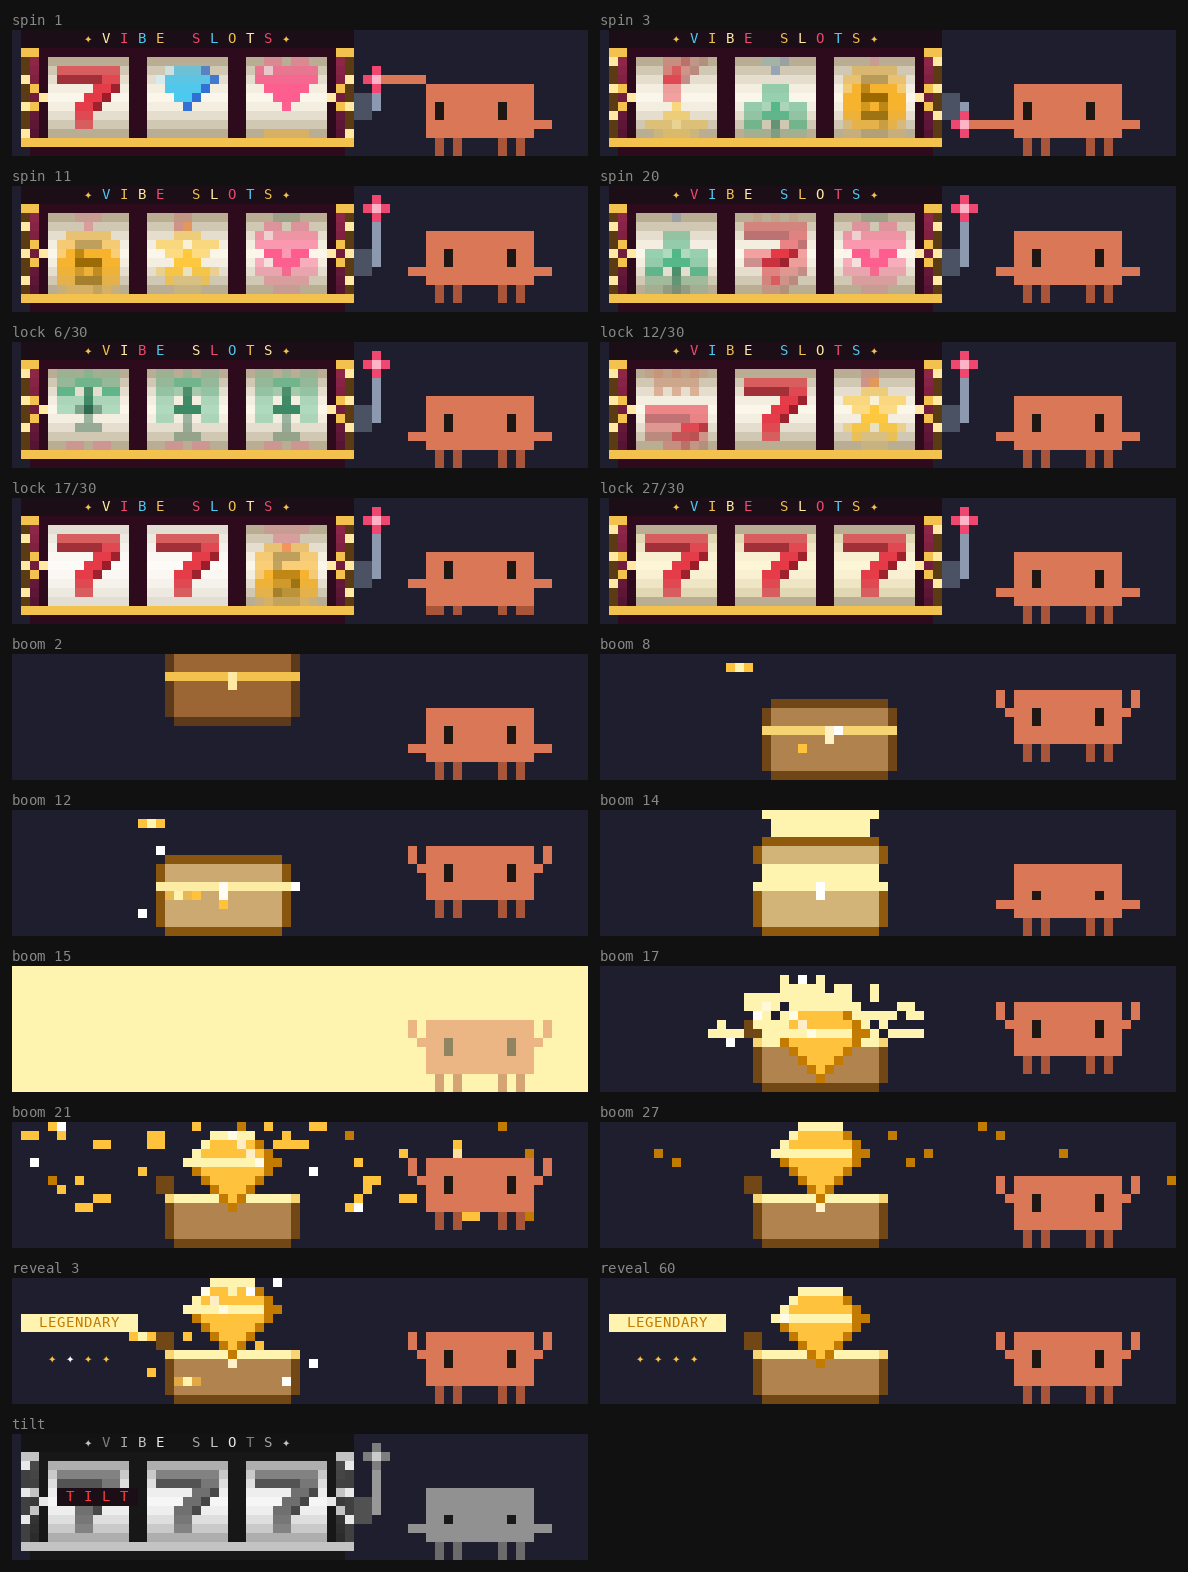
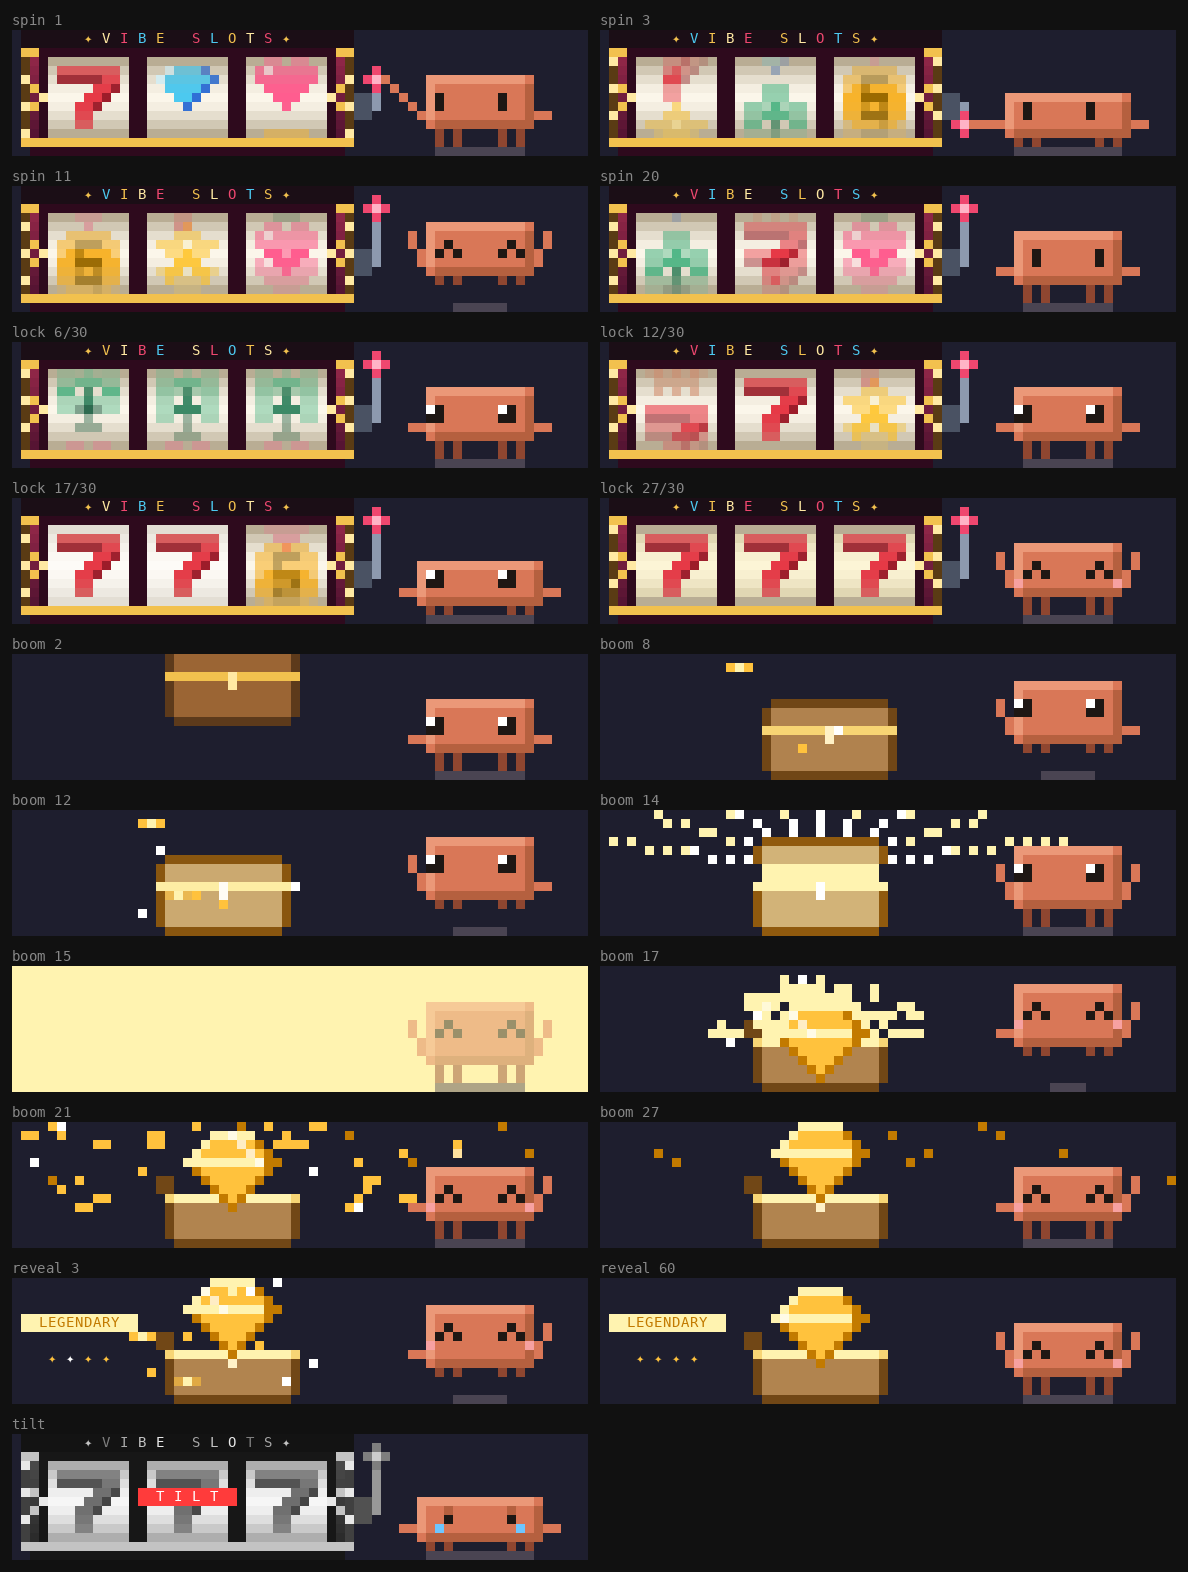
Expressive Clawd: shading, squash and stretch, eyes, reactions
Clawd is now drawn procedurally with lit and shaded edges, a ground
shadow that shrinks as he hops, six eye styles (open, blink, happy,
wide, half-lidded, teary), arm poses, foot taps and blush, and reacts
to every beat: coins, the lever, each reel landing, the box, the burst,
and the prize's rarity.

Claude-Session: https://claude.ai/code/session_01CzJCBwZJrRakeqZLbDG4ad

diff --git a/hooks/pixels.ts b/hooks/pixels.ts
@@ -2,6 +2,8 @@
 // two stacked pixels (a half block), so a 64 x 7 cell canvas is 64 x 14 pixels.
 // Text cells can be laid over the pixels for labels.
 import type { Show, Tier } from '../types'
+import { drawClawd } from './clawd'
+import type { Look } from './clawd'
 import { SLOT_PX, STRIP_PX, lockFrames, mod, reelMotion, stopFrame } from './motion'
 
 export const SCENE_COLUMNS = 64
@@ -198,31 +200,6 @@ const SYMBOL_SPRITES: readonly { rows: readonly string[]; ink: Record<string, nu
   },
 ]
 
-type Pose = 'idle' | 'blink' | 'cheer' | 'reach' | 'squat'
-
-// Clawd as on the Claude Code welcome screen: a wide body, two slit eyes, side
-// arms and four short legs, 18 x 8 pixels.
-const CLAWD_ROWS: Record<Pose, readonly string[]> = {
-  idle: ['...KKKKKKKKKKKK...', '...KKKKKKKKKKKK...', '...KKeKKKKKKeKK...', '...KKeKKKKKKeKK...', '.KKKKKKKKKKKKKKKK.', '...KKKKKKKKKKKK...', '....k.k....k.k....', '....k.k....k.k....'],
-  blink: ['...KKKKKKKKKKKK...', '...KKKKKKKKKKKK...', '...KKKKKKKKKKKK...', '...KKeKKKKKKeKK...', '.KKKKKKKKKKKKKKKK.', '...KKKKKKKKKKKK...', '....k.k....k.k....', '....k.k....k.k....'],
-  cheer: [
-    '.K.KKKKKKKKKKKK.K.',
-    '.K.KKKKKKKKKKKK.K.',
-    '..KKKeKKKKKKeKKK..',
-    '...KKeKKKKKKeKK...',
-    '...KKKKKKKKKKKK...',
-    '...KKKKKKKKKKKK...',
-    '....k.k....k.k....',
-    '....k.k....k.k....',
-  ],
-  reach: ['...KKKKKKKKKKKK...', '...KKKKKKKKKKKK...', '...KeKKKKKKeKKK...', '...KeKKKKKKeKKK...', '...KKKKKKKKKKKKKK.', '...KKKKKKKKKKKK...', '....k.k....k.k....', '....k.k....k.k....'],
-  squat: ['..................', '...KKKKKKKKKKKK...', '...KKeKKKKKKeKK...', '...KKeKKKKKKeKK...', '.KKKKKKKKKKKKKKKK.', '...KKKKKKKKKKKK...', '...KKKKKKKKKKKK...', '...kk.k....k.kk...'],
-}
-
-function drawClawd(cv: Canvas, x: number, y: number, pose: Pose, map?: (c: number) => number): void {
-  cv.sprite(x, y, CLAWD_ROWS[pose], { K: INK.clawd, k: INK.clawdShade, e: INK.eye }, map)
-}
-
 const CHEST = [
   '.ddddddddddddd.',
   'dWWWWWWWWWWWWWd',
@@ -256,7 +233,7 @@ const WINDOWS = [4, 15, 26]
 const WIN_W = 9
 const PAY_Y = WIN_Y + Math.floor(WIN_H / 2)
 const CLAWD_X = 43
-const CLAWD_Y = 6
+const GROUND = 12
 
 /** The lever's pull, 0 up to 1 fully down, over the first frames of a spin. */
 function leverPull(show: Show): number {
@@ -352,23 +329,41 @@ function drawCabinet(cv: Canvas, show: Show, dim: (c: number) => number = c => c
 
 function spinScene(cv: Canvas, show: Show): void {
   drawCabinet(cv, show)
+  clawd(cv, spinLook(show))
+}
+
+function clawd(cv: Canvas, look: Look): void {
+  drawClawd(cv, CLAWD_X, GROUND, look)
+}
+
+/** Clawd at the machine: hauls the lever, taps a foot while waiting, cheers each coin. */
+function spinLook(show: Show): Look {
   const f = show.frame
   const pull = leverPull(show)
   if (pull > 0) {
-    // Clawd reaches over and hauls the lever down.
     const knobY = Math.round(1 + pull * 8)
-    const y = CLAWD_Y
-    drawClawd(cv, CLAWD_X, y, 'reach')
-    for (let x = 41; x < CLAWD_X + 3; x++) cv.set(x, Math.min(knobY + 1, y + 4), INK.clawd)
-  } else if (show.phase === 'locking') {
-    // Watches the reels, bouncing as each one lands.
-    const bounce = [0, 1, 2].some(i => show.frame - stopFrame(show, i) === 0)
-    drawClawd(cv, CLAWD_X, CLAWD_Y + (bounce ? -1 : 0), bounce ? 'squat' : 'idle')
-  } else {
-    const blink = f % 28 < 2
-    const bob = f % 12 < 6 ? 0 : 1
-    drawClawd(cv, CLAWD_X, CLAWD_Y - bob, blink ? 'blink' : 'idle')
+    return { eyes: 'open', gaze: -1, arms: 'reach', reach: { x: 41, y: knobY + 1 }, squash: pull > 0.5 ? 1 : 0, frame: f }
   }
+  if (show.phase === 'locking') {
+    const end = lockFrames(show)
+    if (f >= end - 6) {
+      const won = show.loot !== null && show.loot.tier !== 'common'
+      return won
+        ? { eyes: 'happy', arms: 'up', blush: true, lift: f % 4 < 2 ? 1 : 0, frame: f }
+        : { eyes: 'half', arms: 'down', gaze: -1, frame: f }
+    }
+    const landed = [0, 1, 2].some(i => f - stopFrame(show, i) === 0)
+    return { eyes: 'wide', gaze: -1, arms: 'down', squash: landed ? 1 : 0, frame: f }
+  }
+  // A coin just went in: a little hop of joy.
+  const since = f - show.coinFrame
+  if (show.coins > 0 && since >= 0 && since < 3) {
+    return { eyes: 'happy', arms: 'up', lift: since === 1 ? 2 : 1, frame: f }
+  }
+  // Waiting on the model: glances at the reels, blinks, taps a foot.
+  const blink = f % 31 < 2
+  const glance = f % 45 >= 30 ? -1 : 0
+  return { eyes: blink ? 'blink' : 'open', gaze: glance, arms: 'down', tap: f % 8 < 4 ? 3 : undefined, frame: f }
 }
 
 const BOX_X = 17
@@ -427,7 +422,7 @@ function boomScene(cv: Canvas, show: Show): void {
   if (f === 15) {
     // One frame of flash as the box bursts.
     cv.rect(0, 0, W, H, g.light)
-    drawClawd(cv, CLAWD_X, CLAWD_Y, 'cheer', c => mix(c, g.light, 0.5))
+    clawd(cv, { eyes: 'happy', arms: 'up', squash: -1, frame: f, map: c => mix(c, g.light, 0.55) })
     return
   }
   if (f < 5) {
@@ -436,7 +431,8 @@ function boomScene(cv: Canvas, show: Show): void {
       // Dust where it lands.
       for (const dx of [-2, -1, 15, 16]) cv.set(BOX_X + dx, H - 1, INK.textDim)
     }
-    drawClawd(cv, CLAWD_X, CLAWD_Y, f >= 3 ? 'squat' : 'idle')
+    // Startled by the box landing.
+    clawd(cv, f >= 3 ? { eyes: 'wide', gaze: -1, arms: 'up', squash: f === 3 ? 2 : 1, frame: f } : { eyes: 'wide', gaze: -1, arms: 'down', frame: f })
     return
   }
   if (f < 13) {
@@ -444,7 +440,9 @@ function boomScene(cv: Canvas, show: Show): void {
     const t = (f - 5) / 8
     cv.sprite(BOX_X + JITTER[f - 5]!, BOX_Y, CHEST, chestInk(t, tier))
     sparkles(cv, f, tier, BOX_X - 4, BOX_Y - 4, 23, 12, Math.round(t * 10))
-    drawClawd(cv, CLAWD_X, CLAWD_Y + (f % 2 === 0 ? -2 : 0), f % 2 === 0 ? 'cheer' : 'squat')
+    // Can't keep still: hops on the spot, arms going.
+    const air = f % 2 === 0
+    clawd(cv, { eyes: 'wide', gaze: -1, arms: 'flail', lift: air ? 2 : 0, squash: air ? -1 : 1, frame: f })
     return
   }
   if (f < 15) {
@@ -466,7 +464,8 @@ function boomScene(cv: Canvas, show: Show): void {
     }
     cv.rect(BOX_X + 1, oy, 13, lift, g.light)
     cv.sprite(BOX_X, BOX_Y - lift, lid, chestInk(1, tier))
-    drawClawd(cv, CLAWD_X, CLAWD_Y, 'blink')
+    // Leans back in awe as the light comes out.
+    clawd(cv, { eyes: 'wide', gaze: -1, arms: 'up', squash: -1, frame: f })
     return
   }
   // The burst: the open chest, a gem rising out of it, and particles under gravity.
@@ -476,7 +475,10 @@ function boomScene(cv: Canvas, show: Show): void {
   const rise = Math.min(1, t / 7)
   const gemY = Math.round(BOX_Y + 1 - rise * 6)
   drawGem(cv, centerX - 5, gemY, tier, f)
-  drawClawd(cv, CLAWD_X, CLAWD_Y + (f % 4 < 2 ? -2 : 0), 'cheer')
+  const HOPS = [0, 2, 3, 2, 0, 0]
+  const k = t % HOPS.length
+  const lift = HOPS[k]!
+  clawd(cv, { eyes: 'happy', arms: 'flail', blush: true, lift, squash: lift > 0 ? -1 : k === 4 ? 1 : 0, frame: f })
 }
 
 function openChest(cv: Canvas, tier: Tier): void {
@@ -504,9 +506,7 @@ function revealScene(cv: Canvas, show: Show): void {
   drawGem(cv, BOX_X + 2, BOX_Y - 5 + (alive && f % 10 < 5 ? 0 : 1), tier, alive ? f : 0)
   if (alive) sparkles(cv, f, tier, BOX_X - 4, 0, 23, 12, tier === 'legendary' ? 14 : tier === 'epic' ? 10 : 6)
   // Clawd's reaction scales with the prize.
-  const pose: Pose = tier === 'common' ? (f % 30 < 2 ? 'blink' : 'idle') : 'cheer'
-  const hop = alive && tier === 'legendary' && f % 6 < 3 ? -2 : 0
-  drawClawd(cv, CLAWD_X, CLAWD_Y + hop, pose)
+  clawd(cv, revealLook(tier, f, alive))
   // The rarity plate, left of the chest.
   const name = ` ${tier.toUpperCase()} `
   const plateW = 13
@@ -517,10 +517,28 @@ function revealScene(cv: Canvas, show: Show): void {
   for (let i = 0; i < stars; i++) cv.text(1 + Math.floor(plateW / 2) - (stars - 1) + i * 2, 4, '✦', twinkle(i))
 }
 
+function revealLook(tier: Tier, f: number, alive: boolean): Look {
+  if (tier === 'common') {
+    // Unimpressed: half-lidded, with the odd shrug.
+    const shrug = alive && f % 20 >= 10 && f % 20 < 13
+    return { eyes: f % 26 < 2 ? 'blink' : 'half', arms: shrug ? 'up' : 'down', frame: f }
+  }
+  if (tier === 'legendary') {
+    // A victory dance: big hops with a squash on every landing.
+    const HOPS = [0, 2, 3, 2, 0, 0]
+    const k = f % HOPS.length
+    const lift = alive ? HOPS[k]! : 0
+    return { eyes: 'happy', arms: alive ? 'flail' : 'up', blush: true, lift, squash: !alive ? 0 : lift > 0 ? -1 : k === 4 ? 1 : 0, frame: f }
+  }
+  // Rare and epic: a happy wave, and a hop now and then.
+  const lift = alive && f % 12 === 1 ? 2 : alive && (f % 12 === 0 || f % 12 === 2) ? 1 : 0
+  return { eyes: 'happy', arms: alive ? 'wave' : 'up', blush: tier === 'epic', lift, frame: f }
+}
+
 function tiltScene(cv: Canvas, show: Show): void {
   drawCabinet(cv, show, grey)
   cv.text(CAB_X + Math.floor((CAB_W - 11) / 2), 3, '  T I L T  ', 0xffffff, INK.tilt)
-  drawClawd(cv, CLAWD_X, CLAWD_Y, 'blink', grey)
+  clawd(cv, { eyes: 'sad', arms: 'down', squash: 1, frame: show.frame })
 }
 
 /** The scene for a frame on a canvas. */

diff --git a/hooks/clawd.ts b/hooks/clawd.ts
@@ -1,0 +1,162 @@
+// Clawd, the Claude Code mascot, drawn procedurally so the body can squash,
+// stretch, hop and emote: the welcome screen's shape (a wide body, slit eyes,
+// side arms, four short legs) at 18 pixels across, with shading and a shadow.
+
+export type Eyes = 'open' | 'blink' | 'happy' | 'wide' | 'sad' | 'half'
+export type Arms = 'down' | 'up' | 'wave' | 'flail' | 'reach'
+
+export type Look = {
+  eyes: Eyes
+  arms: Arms
+  /** Where the eyes look: -1 left, 0 ahead, 1 right. */
+  gaze?: -1 | 0 | 1
+  /** 1 or 2 squashes the body wider and shorter (landing, straining); -1 stretches it. */
+  squash?: number
+  /** Pixels off the ground; the legs tuck while airborne. */
+  lift?: number
+  /** A leg (0 to 3) lifted off the ground, for foot taps. */
+  tap?: number
+  blush?: boolean
+  /** Where a reaching arm ends. */
+  reach?: { x: number; y: number }
+  frame?: number
+  /** Recolors every pixel (greyed out, washed by a flash). */
+  map?: (c: number) => number
+}
+
+type Painter = { set: (x: number, y: number, c: number) => void }
+
+const hex = (s: string) => parseInt(s.slice(1), 16)
+
+export const CLAWD_INK = {
+  body: hex('#d97757'),
+  light: hex('#eb9878'),
+  shade: hex('#b5603f'),
+  leg: hex('#8f4630'),
+  eye: hex('#1e1714'),
+  glint: hex('#ffffff'),
+  blush: hex('#f7a1a1'),
+  tear: hex('#6ec6ff'),
+  shadow: hex('#4a4452'),
+}
+
+export const CLAWD_WIDTH = 18
+
+/** Draws Clawd in an 18-pixel-wide box whose left edge is `x`, standing on row `ground`. */
+export function drawClawd(cv: Painter, x: number, ground: number, look: Look): void {
+  const ink = (c: number) => (look.map ? look.map(c) : c)
+  const set = (px: number, py: number, c: number) => cv.set(px, py, ink(c))
+  const f = look.frame ?? 0
+  const squash = look.squash ?? 0
+  const sq = Math.max(0, squash)
+  const lift = look.lift ?? 0
+
+  const bodyW = 12 + 2 * sq
+  const bodyH = 6 - sq + (squash < 0 ? 1 : 0)
+  const legLen = lift > 0 || sq > 0 ? 1 : 2
+  const feet = ground - lift
+  const bottom = feet - legLen
+  const top = bottom - bodyH + 1
+  const bl = x + 3 - sq
+  const br = bl + bodyW - 1
+
+  // Shadow on the ground, shrinking as Clawd rises.
+  const shadowW = Math.max(4, bodyW - 2 - lift * 2)
+  const sx = Math.round(x + 9 - shadowW / 2)
+  for (let i = 0; i < shadowW; i++) cv.set(sx + i, ground + 1, ink(CLAWD_INK.shadow))
+
+  // Body, lit from the top left.
+  for (let py = top; py <= bottom; py++) {
+    for (let px = bl; px <= br; px++) {
+      const lit = py === top || px === bl
+      const dark = py === bottom || px === br
+      set(px, py, lit && !dark ? CLAWD_INK.light : dark && !lit ? CLAWD_INK.shade : CLAWD_INK.body)
+    }
+  }
+
+  // Legs: four short ones; one may tap, all tuck in the air.
+  const legX = [bl + 1, bl + 3, br - 3, br - 1]
+  legX.forEach((lx, i) => {
+    const up = look.tap === i ? 1 : 0
+    for (let k = 1; k <= legLen - up; k++) set(lx, bottom + k, CLAWD_INK.leg)
+  })
+
+  // Arms.
+  const armY = bottom - 1
+  const left = (dx: number, dy: number) => set(bl - dx, armY - dy, CLAWD_INK.body)
+  const right = (dx: number, dy: number) => set(br + dx, armY - dy, CLAWD_INK.body)
+  const nubs = (side: (dx: number, dy: number) => void) => (side(1, 0), side(2, 0))
+  const raised = (side: (dx: number, dy: number) => void) => (side(1, 0), side(1, 1), side(2, 2), side(2, 3))
+  switch (look.arms) {
+    case 'down':
+      nubs(left)
+      nubs(right)
+      break
+    case 'up':
+      raised(left)
+      raised(right)
+      break
+    case 'wave':
+      nubs(left)
+      if (f % 6 < 3) raised(right)
+      else (right(1, 0), right(2, 1), right(3, 1))
+      break
+    case 'flail':
+      if (f % 2 === 0) (raised(left), nubs(right))
+      else (nubs(left), raised(right))
+      break
+    case 'reach': {
+      nubs(right)
+      const to = look.reach ?? { x: bl - 3, y: armY }
+      const steps = Math.max(Math.abs(bl - 1 - to.x), Math.abs(armY - to.y), 1)
+      for (let s = 0; s <= steps; s++) {
+        const t = s / steps
+        set(Math.round(bl - 1 + (to.x - (bl - 1)) * t), Math.round(armY + (to.y - armY) * t), CLAWD_INK.body)
+      }
+      break
+    }
+  }
+
+  // Eyes: slits in the face, two pixels tall, set where the welcome screen has them.
+  const gaze = look.gaze ?? 0
+  const eyeTop = top + 2 - (sq > 0 ? 1 : 0)
+  const eyes = [bl + 2 + sq + gaze, br - 2 - sq + gaze]
+  eyes.forEach((ex, side) => {
+    const out = side === 0 ? -1 : 1
+    switch (look.eyes) {
+      case 'open':
+        set(ex, eyeTop, CLAWD_INK.eye)
+        set(ex, eyeTop + 1, CLAWD_INK.eye)
+        break
+      case 'blink':
+        set(ex - 1, eyeTop + 1, CLAWD_INK.eye)
+        set(ex, eyeTop + 1, CLAWD_INK.eye)
+        set(ex + 1, eyeTop + 1, CLAWD_INK.eye)
+        break
+      case 'happy':
+        set(ex - 1, eyeTop + 1, CLAWD_INK.eye)
+        set(ex, eyeTop, CLAWD_INK.eye)
+        set(ex + 1, eyeTop + 1, CLAWD_INK.eye)
+        break
+      case 'wide': {
+        const wx = side === 0 ? ex - 1 : ex
+        set(wx, eyeTop, CLAWD_INK.glint)
+        set(wx + 1, eyeTop, CLAWD_INK.eye)
+        set(wx, eyeTop + 1, CLAWD_INK.eye)
+        set(wx + 1, eyeTop + 1, CLAWD_INK.eye)
+        break
+      }
+      case 'half':
+        set(ex, eyeTop, CLAWD_INK.shade)
+        set(ex, eyeTop + 1, CLAWD_INK.eye)
+        break
+      case 'sad':
+        // Heavy lids and a tear rolling down the outside of each eye.
+        set(ex, eyeTop, CLAWD_INK.shade)
+        set(ex, eyeTop + 1, CLAWD_INK.eye)
+        set(ex + out, eyeTop + 1 + (f % 6 < 3 ? 1 : 2), CLAWD_INK.tear)
+        break
+    }
+    if (look.blush) set(ex + out * 2, eyeTop + 2, CLAWD_INK.blush)
+  })
+}

diff --git a/README.md b/README.md
@@ -6,7 +6,9 @@ In the terminal it's drawn as full-color pixel art (half-block pixels on a `Rast
 
 ![Frames of the pixel scene: spinning, locking, the chest bursting and the reveal](docs/preview.png)
 
-- Clawd, the Claude Code mascot, works the machine: blinks while it spins, ducks to pull the lever, hops while the box rattles, cheers at the explosion, and dances for a jackpot (or just blinks at a common prize).
+- Clawd, the Claude Code mascot, has a whole range: taps a foot and glances at the reels while waiting, hops for every coin (tool call), hauls the lever, flinches as each reel lands, flails while the box rattles, leans back in awe as it cracks, and celebrates by rarity (a victory dance for legendary, a wave for rare and epic, an unimpressed shrug for common, a tear for TILT). Drawn procedurally in `hooks/clawd.ts` with shading, squash and stretch, and a shadow.
+
+![Clawd's expressions](docs/clawd.png)
 - Rarity: common 60%, rare 25%, epic 12%, legendary 3% (each coin adds +0.5% to legendary, capped at 10%).
 - The payline matches the tier: 7-7-7 is legendary, a triple is epic, a pair is rare.
 - Your stash of prizes is kept across sessions (`$.store`).
@@ -20,6 +22,6 @@ git clone https://github.com/alexmeckes/vibe-slots
 claude --plugin-dir ./vibe-slots
 ```
 
-Files: `hooks/pixels.ts` (the pixel scene), `hooks/motion.ts` (timing and reel physics), `hooks/art.ts` (loot tables and the text-art fallback), `hooks/register.tsx` (hooks and ticker), `types/index.d.ts` (state contract), `tests/slots.test.tsx`.
+Files: `hooks/pixels.ts` (the pixel scene), `hooks/clawd.ts` (Clawd), `hooks/motion.ts` (timing and reel physics), `hooks/art.ts` (loot tables and the text-art fallback), `hooks/register.tsx` (hooks and ticker), `types/index.d.ts` (state contract), `tests/slots.test.tsx`.
 
 Check: `claude plugin validate .` and `claude plugin test .`
